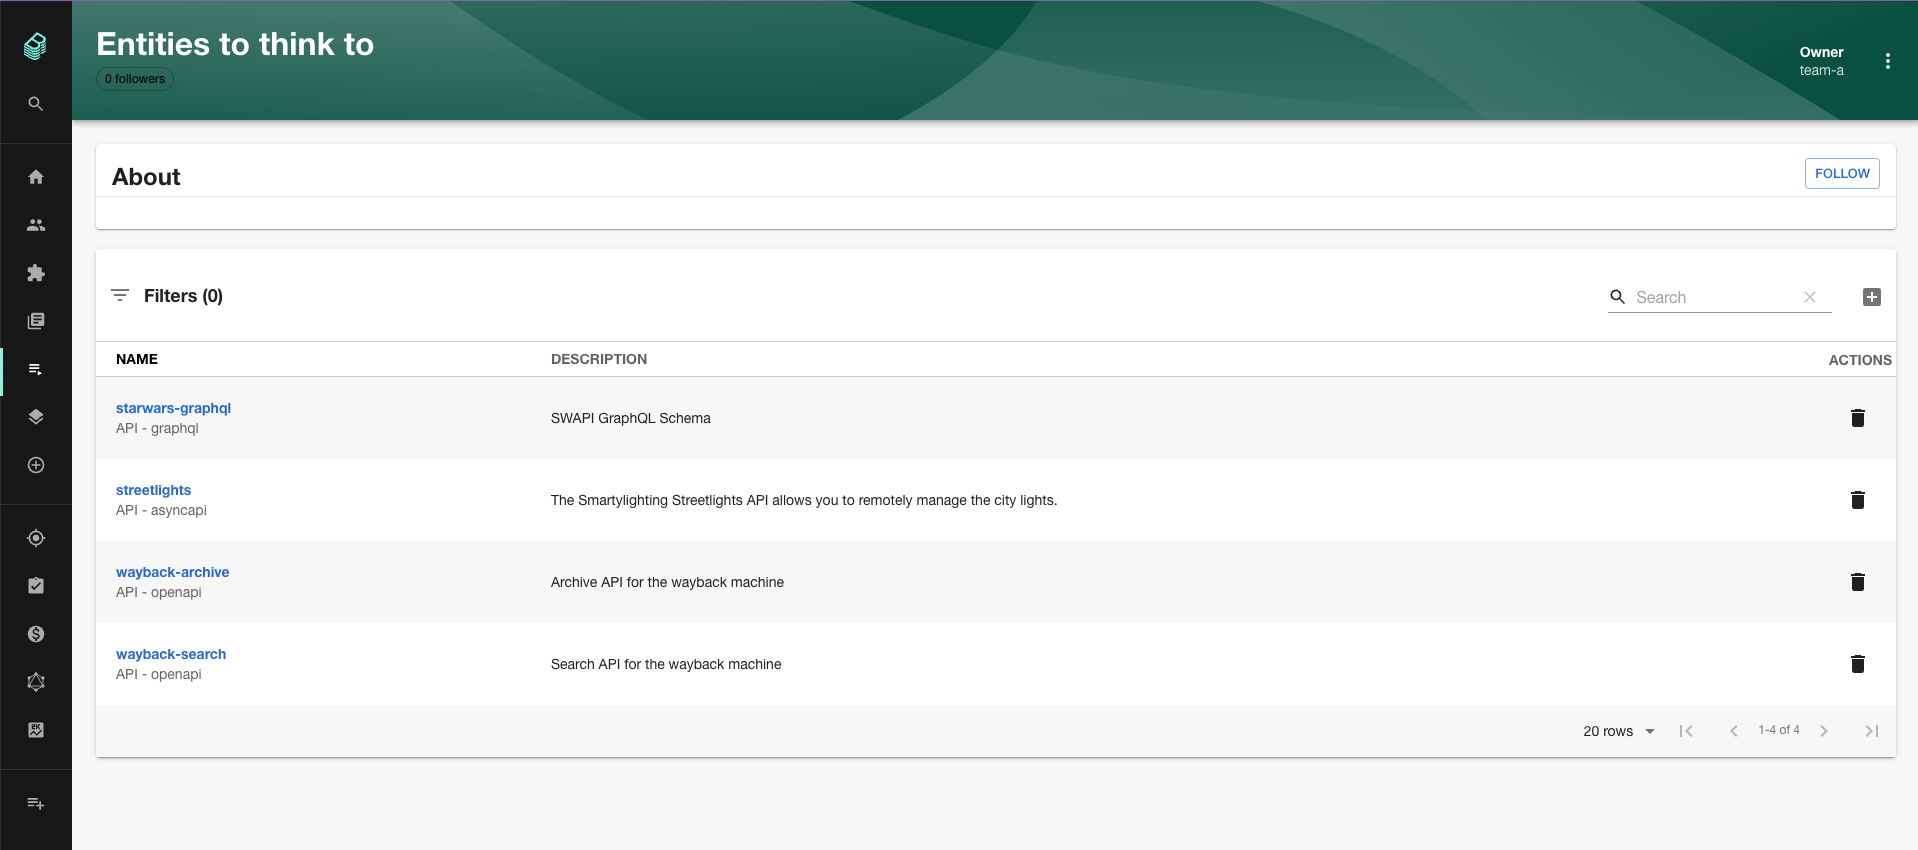
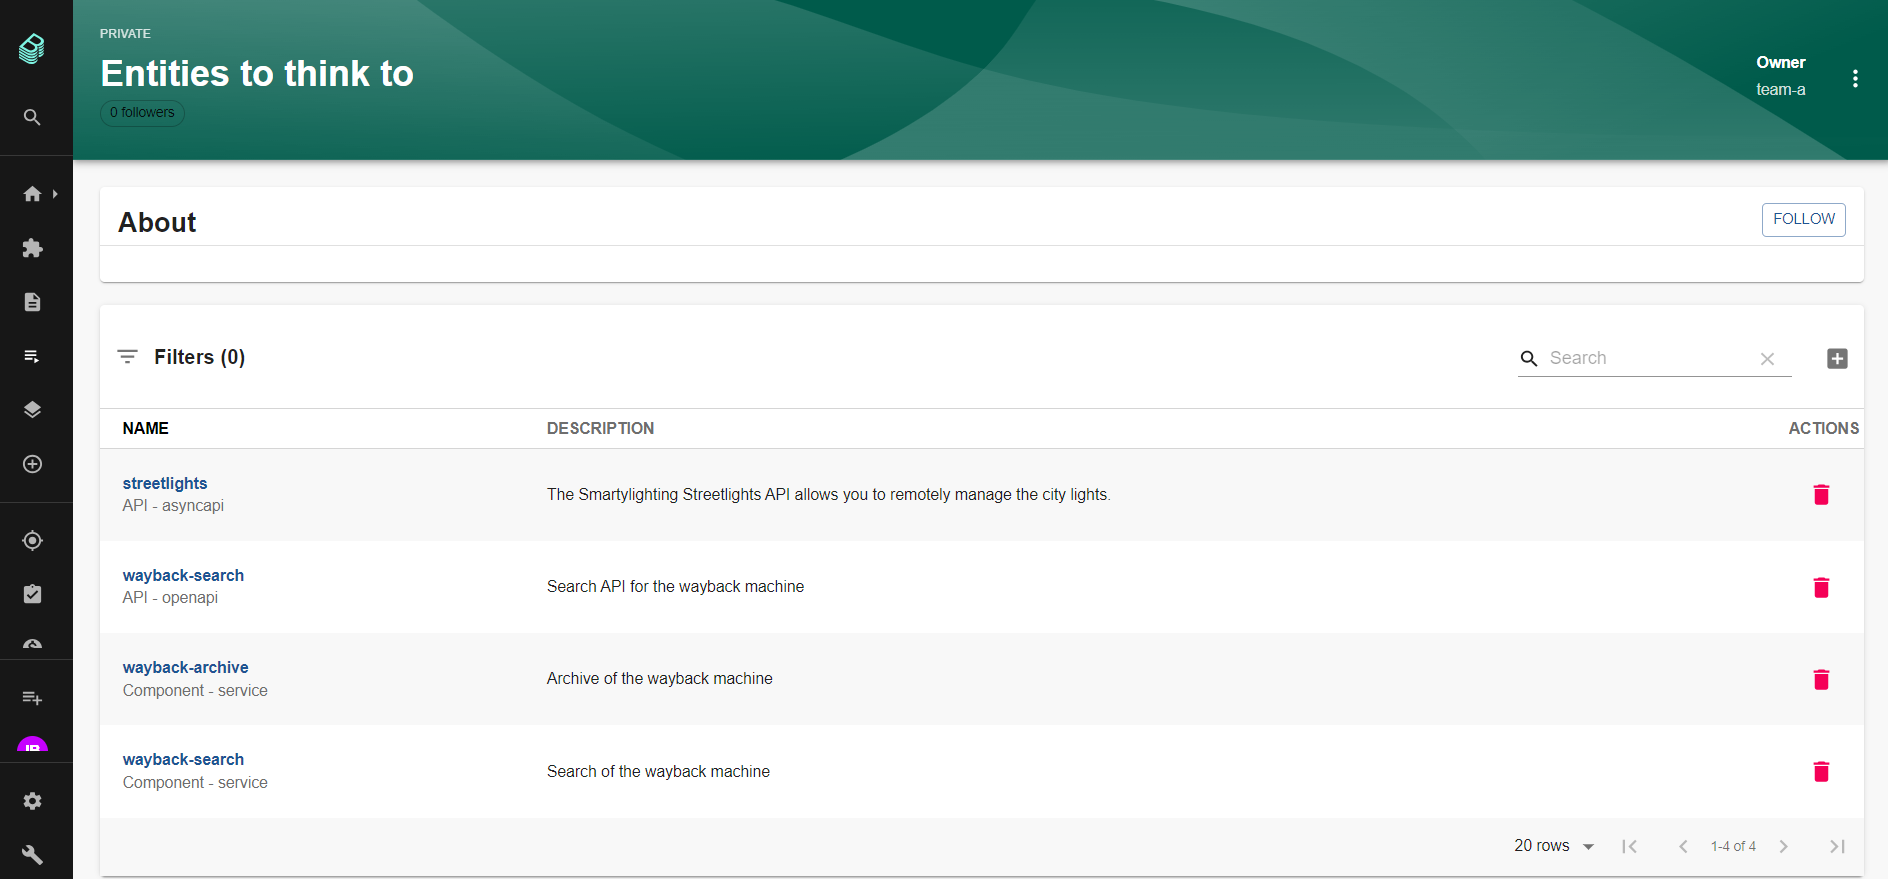
Updated playlist readme doc with latest screenshots

diff --git a/plugins/playlist/README.md b/plugins/playlist/README.md
@@ -154,6 +154,10 @@ playlist:
 
 ![Create New Playlist example](./docs/playlist-create-new.png)
 
+### Edit Existing Playlist
+
+![Edit Existing Playlist example](./docs/playlist-edit-existing.png)
+
 ### Add Entities to Playlist
 
 ![Add Entities to Playlist example](./docs/playlist-add-entities.png)

diff --git a/.changeset/big-bananas-sleep.md b/.changeset/big-bananas-sleep.md
@@ -1,0 +1,5 @@
+---
+'@backstage/plugin-playlist': patch
+---
+
+Updated latest playlist screen in readme document
